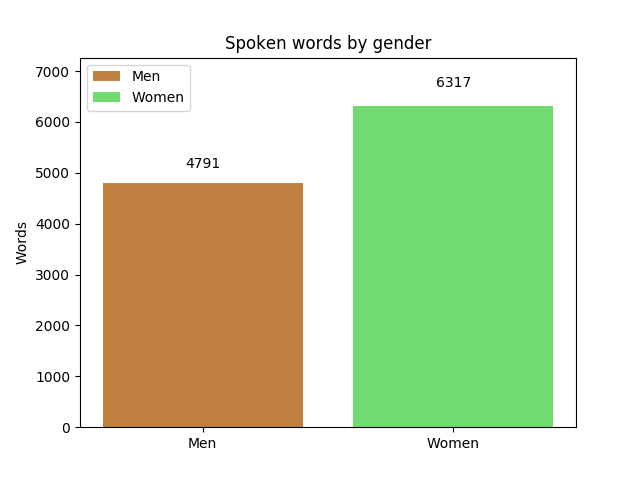
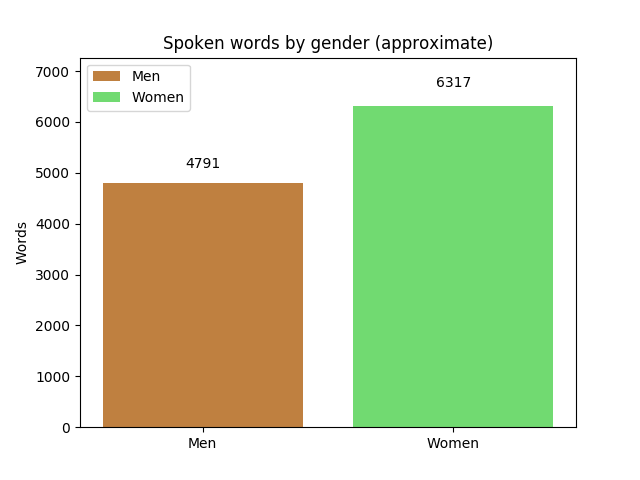
Changing wording, given the coarse-grained methodology used.

Changed region(s): [[0.25, 0.0625, 0.7812, 0.125]]

diff --git a/util/TwoBarChart.py b/util/TwoBarChart.py
@@ -14,7 +14,7 @@ def draw(men, women):
     # add some text for labels, title and axes ticks
     ax.set_ylim([0,topval + (topval*0.15)]) # 15% buffer
     ax.set_ylabel('Words')
-    ax.set_title('Spoken words by gender')
+    ax.set_title('Spoken words by gender (approximate)')
     ax.set_xticks(ind)
     ax.set_xticklabels(['Men', 'Women'])
 
